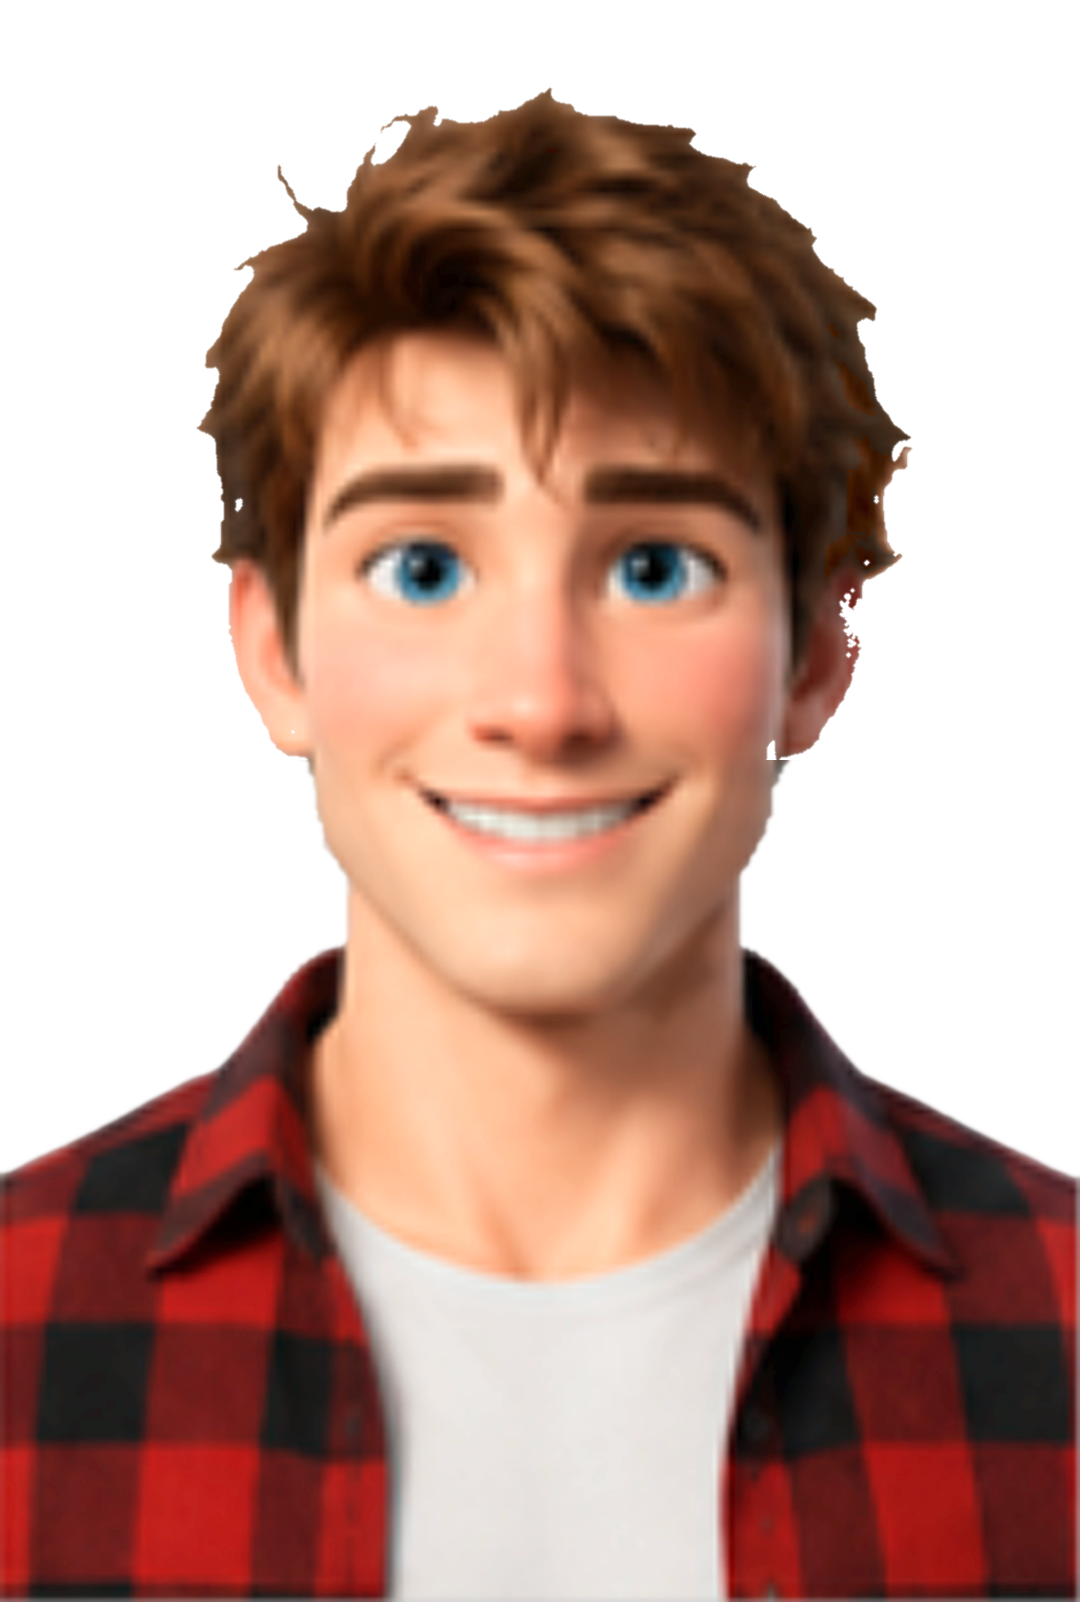
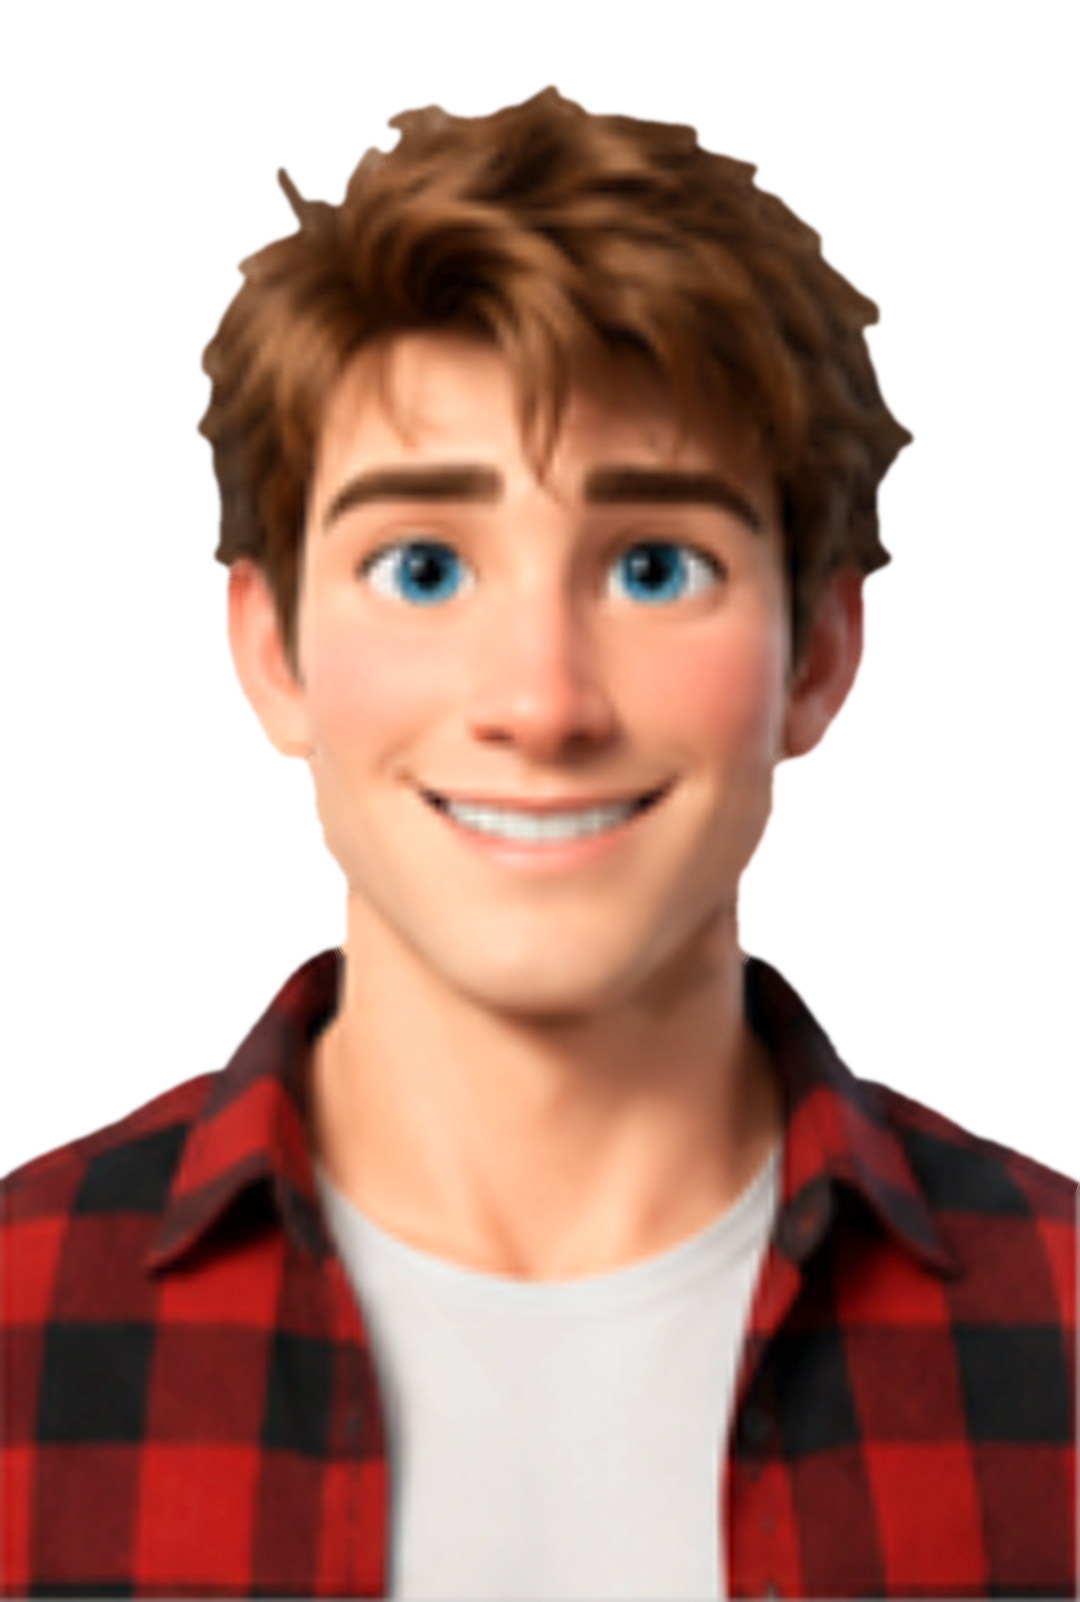
seri/bolum-001: gorsel-varlik-sanatcisi Z3b — 12 ifade portresi kenar temizliği (tırtık, kopuk uç, renk bulaşığı), aynı ad
Claude-Session: https://claude.ai/code/session_019bCNGEBBQaepmiQNuPNZwX

diff --git a/uretim/seri/karakter/araclar/ifade-kenar.py b/uretim/seri/karakter/araclar/ifade-kenar.py
@@ -16,9 +16,11 @@ def edt(b): return cv2.distanceTransform(b.astype(np.uint8), cv2.DIST_L2, 5)
 ic = edt(dolu)
 val = hsv[..., 2] / 255.0
 ust = np.zeros((H, W), bool); ust[: int(H * 0.55)] = True
+sac = np.zeros((H, W), bool); sac[: int(H * 0.40)] = True  # soluk-tel kuralı yalnız saç yüksekliğinde (boyun gölgesi teni yenmesin)
 yabanci = dolu & (ic <= 20) & (sat < 0.22)
 # kafada zemine karışmış tel ucu: soluk (s<0,33) ve ten kadar parlak değil (v<0,80); saç s≥0,45, ten v≥0,8
-yabanci |= dolu & ust & (ic <= 24) & (sat < 0.33) & (val < 0.80)
+yabanci |= dolu & sac & (ic <= 24) & (sat < 0.33) & (val < 0.80)
+yabanci |= dolu & ust & (ic <= 24) & (sat < 0.18)  # parlak gri hale (ten s≥0,25 korunur)
 m = dolu & ~yabanci
 k = cv2.getStructuringElement(cv2.MORPH_ELLIPSE, (9, 9))
 m = cv2.morphologyEx(m.astype(np.uint8), cv2.MORPH_CLOSE, k); m = cv2.morphologyEx(m, cv2.MORPH_OPEN, k)
@@ -29,7 +31,10 @@ for (x, y) in [(0, 0), (W - 1, 0)]:
     if ff[y, x]: cv2.floodFill(ff, msk, (x, y), 2)
 m = np.where(ff == 1, 1, m).astype(np.uint8)  # kenara bağlı olmayan zemin = delik → doldur
 # alt kenar (kart kesiği) ve yanlar: pürüzsüzleştirme sırasında kadraj kenarında aşınma olmasın diye yansıtmalı sınır
-ms = cv2.GaussianBlur(m.astype(np.float32), (0, 0), 3, borderType=cv2.BORDER_REPLICATE) > 0.5
+m3 = cv2.GaussianBlur(m.astype(np.float32), (0, 0), 3, borderType=cv2.BORDER_REPLICATE)
+m5 = cv2.GaussianBlur(m.astype(np.float32), (0, 0), 5, borderType=cv2.BORDER_REPLICATE)
+gec = np.clip((np.arange(H)[:, None] - H * 0.40) / (H * 0.08), 0, 1)  # saçta σ5 (tel basamakları), yüz/gövdede σ3, arada geçiş
+ms = (m5 * (1 - gec) + m3 * gec) > 0.5
 a = cv2.GaussianBlur(ms.astype(np.float32), (0, 0), 2, borderType=cv2.BORDER_REPLICATE)
 # renk: temiz iç = kenardan >8 px içeride; dışı ve ince bant en yakın temiz iç rengini alır
 d_in = edt(ms)

diff --git a/uretim/seri/karakter/rapor.md b/uretim/seri/karakter/rapor.md
@@ -46,3 +46,19 @@ Girdi sha256: AG-J `c0df33b400eb`, AG-M `0974fc910889`.
 - **AG-M KABUL** (MAHajG_s9zc): tüm kare fark %0,56, ama saçta ve flanelde de küçük oynamalar var (%0,1–0,7). Yama yalnız ağız bölgesini aldığı için bunlar tabana taşınmaz.
 - `agiz-yama.py`: bölge dışı fark Jake %0,03 / Mike %0,24 (kabul ≤%1), dikiş %0. Açık/yarı çene taban silüeti dışına taşmıyor (0 px). Yeni `--siluet` seçeneği: Mike'ın yama kutusundaki 1.916 ham zemin pikseli saydam yapıldı (Remotion'da mavi boyamasın). Mike yamaları aynalı. İki koşu birebir aynı (`cmp`).
 - Göz incelemesi (3 durum, 1,5×): tek ağız, gölgesiz, dikiş yok; açıkta üst dişler görünüyor, gülümseme yok.
+
+## Z3b (2026-11-11): ifade portresi kenar temizliği → GEÇTİ (kendi testim; hakem fark kontrolü bekleniyor)
+- **Kök neden:** `kes-gc.py` saç saçağı adımı zemine karışmış tellerin renk tonunu saç tonuna çekip açıklığını bırakmıştı → Mike'ta kızıl, Jake'te bordo/koyu lekeler. Üstüne ikili GrabCut maskesi 4,3× büyütülmüş kartta tırtık ve kopuk uç bırakmıştı. Önceki `sac-hale-temizle.py` yalnız gri haleyi silmişti.
+- **Düzeltme:** 12 portre kaynak kırpımdan `IFADE_SAC_PX=0 ifade-hazirla.py` ile yeniden üretildi (saç renk adımı kapalı) ve sonuna yeni `araclar/ifade-kenar.py` eklendi. Kenar aracının adımları:
+  - kenar bandında yabancı piksel silme (gri halede s<0,22; saçta soluk tel s<0,33 & v<0,80; parlak gri s<0,18);
+  - alfa kapama + açma (r=4), en büyük bileşen, delik doldurma;
+  - kontur Gauss σ5 (saç) / σ3 (yüz-gövde), sonra σ2 yumuşak kenar;
+  - kenardan 8 px'e kadar renk = en yakın temiz iç pikselin rengi (temiz iç: 14 px içeride ve kafada s>0,30), 8–14 px arası geçiş.
+- **Ara elemeler** (göz kontrolü, 1:1):
+  - v1 (renk bandı 4–8 px): tel uçlarında gri kaldı.
+  - v2 (14 px): kaynak pikselin kendisi soluk olduğu için gri kaldı.
+  - v3: soluk-tel kuralı boyun gölgesini yedi, boyunda çentik oluştu → kural saç yüksekliğine (üst %40) sınırlandı.
+  - v4: saç konturunda ~10 px basamak → saçta σ5.
+- **Ölçüm (12/12):** alfa adası 1; kafa kenar bandında gri piksel (s<0,18, kenara ≤6 px) 0; yüz içi (kenardan >30 px) eski varlığa ortalama fark 0,2–0,9 (yüz değişmedi). Boyut ve konum aynı, `yerlesim.json` / `mekan-l1.ts` değişmeden çalışır. İki koşu birebir aynı (`cmp`, 12 dosya).
+- **Teslim:** `video/public/seri/bolum-001/ifade/` aynı adlar. Mike'ın `-temiz.png` dosyaları (gulen, saskin, endiseli, heyecanli) yeni sürümün kopyası. sha256: mike-heyecanli-temiz `77f705048e50`, jake-dusunceli `74ee5a42fee6`.
+- **Kanıt:** `kontak-z3b.jpg` (üst: önce/sonra 1:1 yeşil zemin, Mike sağ saç-kulak ve Jake sol saç; alt: 12 portre yeşil zeminde).

diff --git a/.claude/agents/hafiza/gorsel-varlik-sanatcisi.md b/.claude/agents/hafiza/gorsel-varlik-sanatcisi.md
@@ -26,6 +26,6 @@
 - 2026-11-05 (S03 dalga 1a): Kafa-sabit + "eyes looking straight at the camera" kalıbı 4/4 geçti (kor. 0,87–0,92, kayma ≤1,4 px; kol yukarıda M07 dy +5 → ofset). Kasa içi gibi ahşap/doku isteyen plakada referanssız prompt resimsi çıktı (kontur 0,06) → stil-olcum'a kontur ≥1,0 ekle, çizgi film nesne sayfasını referans ver.
 - 2026-11-05: Kafa değişiminde maske alt sınırı sert kesilirse çene altında ton basamağı → 40 px rampa (`kafa-degis.py`). Elli ifade kafası (e-dusunen) taşınmaz: el kolsuz kalır.
 - 2026-11-05 (S03 dalga 1b/2): Zemine yakın pastel/lila nesne M4'te silinir → dışbükey zarf köşe keser; dikdörtgen dolgu + ΔE<12 zemin temizliği çalıştı. Yapraklı dış mekân plakaları düzlük 43–47 verir (boyamsı değil) → "tolere" yaz, son hakkı harcama. Hook entegre plaka kesik bindirmeden iyi (gece ışığı).
-- 2026-11-10 (seri sayfaları): Canva isteği 1 görsel döndürüyor (4 aday değil) → plan "tek atış + yedek hak". Tek görselde dönüş+6 ifade sayfası ilk denemede geçti (Mike kor. 0,93; Jake 0,76: gülen/heyecanlı portrede ten kayması). Kabulden sonra hedef renk = sayfa medyanı (`uretim/seri/karakter/araclar/sayfa-olcum.py`). Prompt yazmadan önce seri incili mekân/poz listesini oku.
 - 2026-11-10 (seri tur 2): "eyes toward frame-right" iki tabanda da sola baktı → yönü prompt'a bırakma, asimetrik kimlik öğesi olmayan karakteri aynala. Lacivert giysi + slate-blue zemin M4'ü bozar (ΔE 7,6) → `uretim/seri/karakter/araclar/kes-gc.py`; sonraki tabanlarda zemin rengi giysiye zıt seçilsin. Yarı ağız = DIS akış ara karesi (`agiz-yama.py`); sayfa portresi tezgâh arkasına konmaz, yalnız ekstrem yakın plan.
 - 2026-11-11 (seri AG): kafa-sabit EDIT 3D'de de tuttu (fark %0,56, bölge dışı ≤%0,24) → ağız yamasında `--siluet` zorunlu (yama kutusu ham zemini taşır). Rhubarb C/E açık, B/F/G/H yarı, X/A kapalı → yarı %60, açık %33.
+- 2026-11-11 (Z3b): saçağa yalnız ab boyamak (L korunur) kızıl/bordo leke yapar → yasak. Kenar = yabancı piksel sil + alfa kapama/açma + kontur σ5 (saç) + en yakın temiz iç rengi (`uretim/seri/karakter/araclar/ifade-kenar.py`); teslim öncesi 1:1 yeşil kırpım zorunlu.
